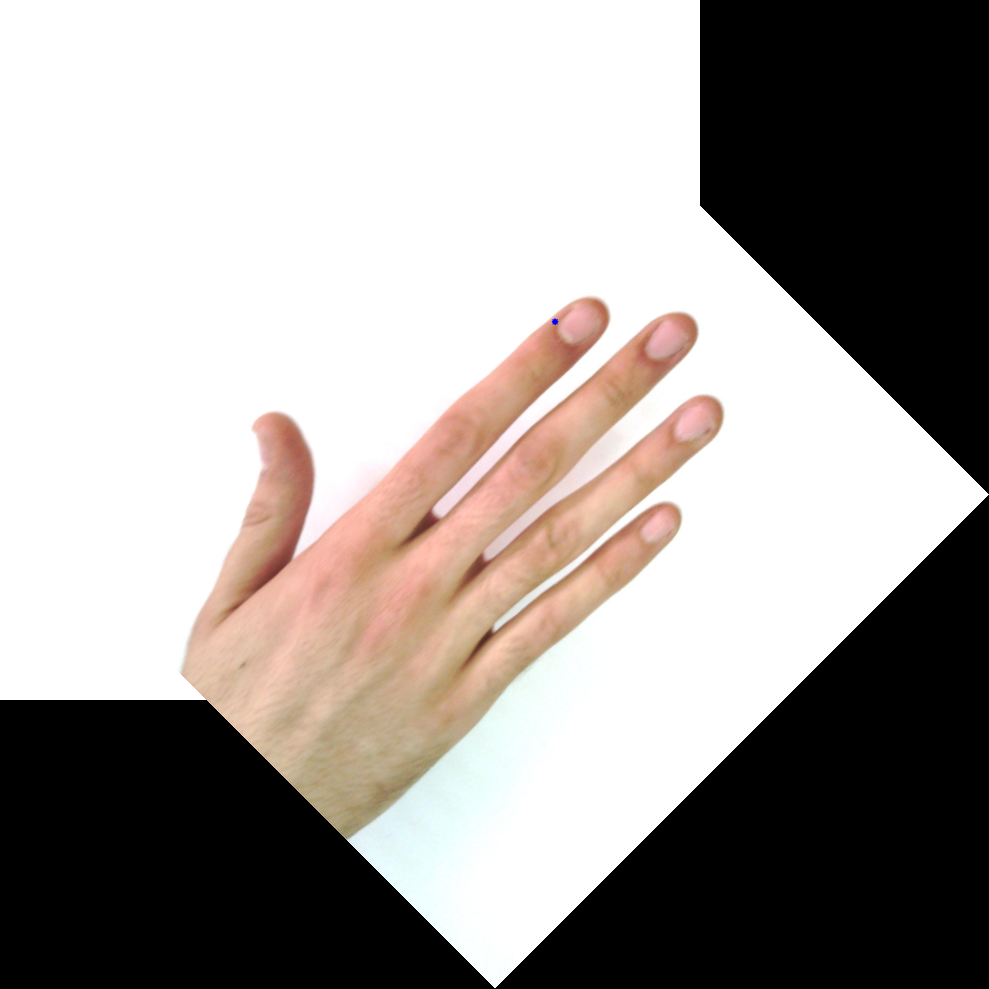
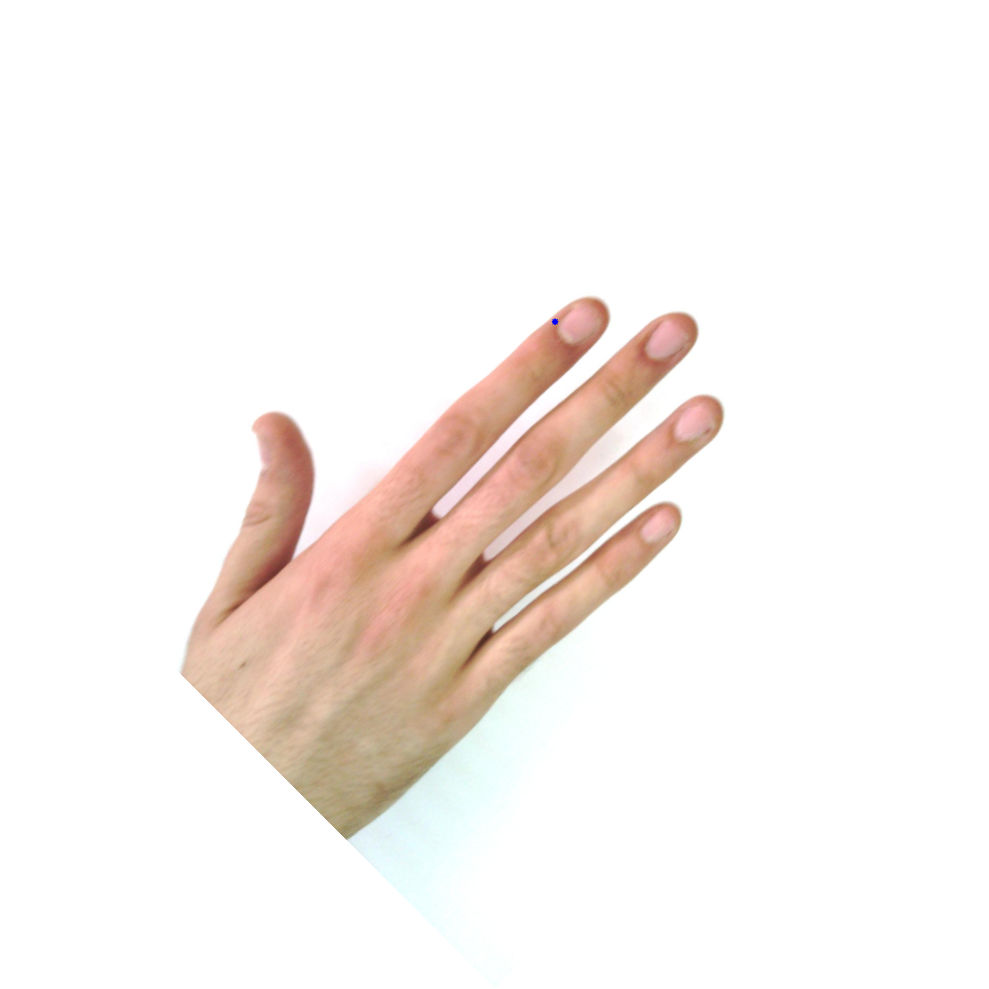
[bug] rotation transform bug

diff --git a/Image-Preprocess/image_augmentation.py b/Image-Preprocess/image_augmentation.py
@@ -227,8 +227,8 @@ def rotate_image_trnsfm(images_info, json_data, angle):
         new_x, new_y = rotate_box((x, y), cx, cy, height, width, angle)
         new_xy = (new_x, new_y)
 
-        for row in range(height):
-            for col in range(width):
+        for row in range(new_height):
+            for col in range(new_width):
                 r,g,b = rotated_img[row,col][0], rotated_img[row,col][1], rotated_img[row,col][2]
                 if r <= 0 and g <= 0 and b <= 0:
                     rotated_img[row,col] = np.array([255,255,255])                    
